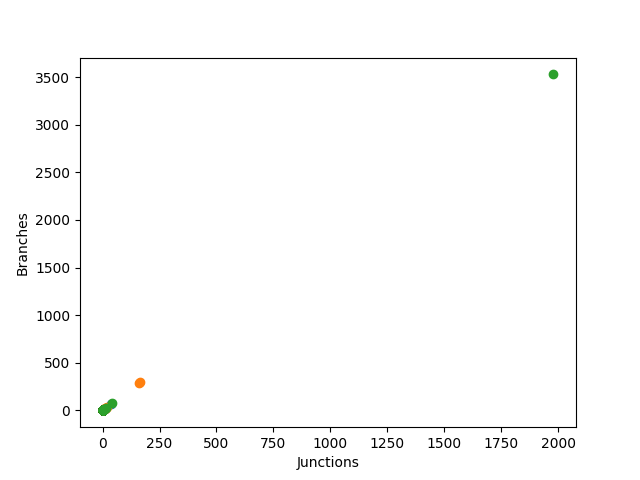
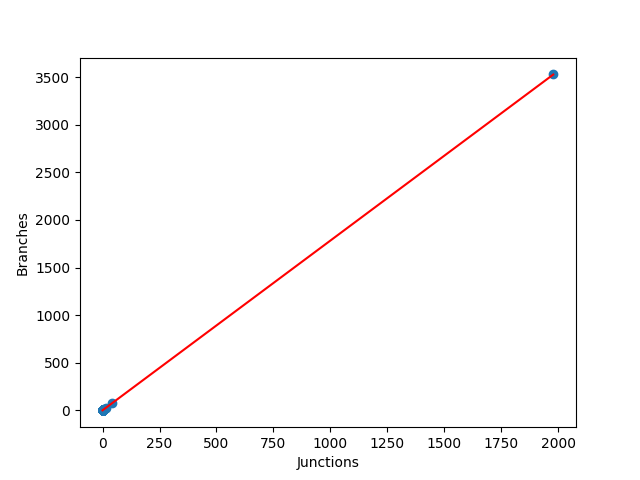
Add linear fits

diff --git a/data-analysis/src/analyze_branches.py b/data-analysis/src/analyze_branches.py
@@ -5,6 +5,7 @@ import csv
 import os
 from typing import List
 
+import numpy as np
 from matplotlib import pyplot as plt
 from file_utils import save_figure
 from branch_measurement import BranchMeasurement, read_branch_measurements_from_row
@@ -29,6 +30,7 @@ def read_branch_measurements(file_path: str) -> List[BranchMeasurement]:
 def scatterplot_junctions_and_branches(branch_measurements: List[BranchMeasurement], file_name: str) -> None:
     """
     Generate scatterplot of junction count and branch count.
+    Also finds linear fit of points using numpy
 
     :param branch_measurements: List of branch measurements
     :param file_name: Name of original csv file
@@ -40,8 +42,21 @@ def scatterplot_junctions_and_branches(branch_measurements: List[BranchMeasureme
     plt.xlabel('Junctions')
     plt.ylabel('Branches')
 
+    # Fitting 1st degree polynomial
+    fit = np.polyfit(junction_counts, branch_counts, 1)
+
+    # y = ax + b
+    a = fit[0]
+    b = fit[1]
+
+    # Plot line
+    xs = [i for i in range(int(min(junction_counts)), int(max(junction_counts)))]
+    ys = [a * x + b for x in xs]
+    plt.plot(xs, ys, color='red')
+
     save_path = '../../resources/output/branch-analysis/' + file_name + ".png"
     save_figure(save_path)
+    plt.close()
 
 
 def generate_branch_measurement_graphs(branch_measurements: List[BranchMeasurement], file_name: str) -> None:
